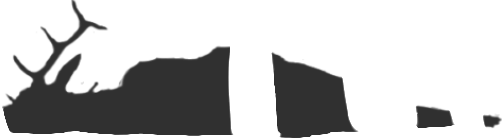
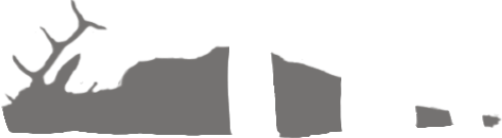
Created the objects for the deer body, rifle, and bag. Also updated graphics
Created methods to access information from the csv file which can be repeatedly accessed from the view

diff --git a/JIntroductionScreen.java b/JIntroductionScreen.java
@@ -9,71 +9,24 @@ public class JIntroductionScreen extends JPanel{
 	BufferedImage imgIntroduction = null;
 	
 	BufferedImage imgMouse = null;
-	double dblMouseX;
-	double dblMouseY;
+	int intMouseX = 700;
+	int intMouseY = 500;
 	
 	//Methods
 	public void paintComponent(Graphics g){
         super.paintComponent(g);
 			//Draw Background
 			g.drawImage(imgIntroduction, 0, 0, null);
-			g.drawImage(imgMouse,700, 500, null);
+			g.drawImage(imgMouse,intMouseX, intMouseY, null);
     }
-    
-	JTextArea theChat = new JTextArea();
-	JScrollPane theChatScroll = new JScrollPane(theChat);
-	JTextField SendChat = new JTextField();
-	
-	//Methods
-	public void actionPerformed (ActionEvent evt){
-		
-	}
-	public void mousePressed(MouseEvent evt) {
-		
-	}
-	
-	public void mouseDragged(MouseEvent evt) {
-      
-    }
-
-    public void mouseReleased(MouseEvent evt) {
-    
-    } 
-    
-    public void mouseClicked(MouseEvent evt) {
-		
-	}
-    public void mouseEntered(MouseEvent evt) {
-		
-	}
-    public void mouseExited(MouseEvent evt){
-		
-	}
-    public void mouseMoved(MouseEvent evt) {
-	}
-	
-	//Constructor
-	public IntroductionView(){
-		IntroPanel.setLayout(null);
-		IntroPanel.setPreferredSize(new Dimension(1280, 720));
-		
-		HelpButton.setBounds(1000,20,250,50);
-		HelpButton.setBackground(Color.GRAY);
-		HelpButton.addActionListener(this);
-		IntroPanel.add(HelpButton);
-		
-		theChatScroll.setBounds (1000,100, 250, 500);
-		
-		
-	}
-}
+  
     
     //Constructor
     public JIntroductionScreen(){
 		super();
 		try{
 			imgIntroduction = ImageIO.read(new File("images/Introduction Background.png"));
-			imgMouse = ImageIO.read(new File("images/Target Cursor"));
+			imgMouse = ImageIO.read(new File("images/Target Cursor.png"));
 		}catch(IOException e){
 			System.out.println("Unable to load image");
 		}

diff --git a/Path1Panel.java b/Path1Panel.java
@@ -19,9 +19,14 @@ public class Path1Panel extends JPanel implements ActionListener, MouseListener{
 	//Unlockables
 	boolean blnSolved = false;
 	boolean blnDeerBody = false;
+	boolean blnHunting = false;
+	boolean blnBag = false;
+
 	
 	//Objects
 	JButton btnDeerBody = new JButton(new ImageIcon("images/Deer Body.png"));
+	JButton btnHunting = new JButton(new ImageIcon("images/Hunting Silhoutte.png"));
+	JButton btnBag = new JButton(new ImageIcon("images/Bag1.png"));
 	
 	//Text Area where clues are given
 	JTextArea TheTextArea = new JTextArea("");
@@ -41,18 +46,49 @@ public class Path1Panel extends JPanel implements ActionListener, MouseListener{
 			intObjectRow = Model1.AssignRow("deer body");		//Figure out on which line of the csv file the object is on
 			System.out.println(intObjectRow);
 			
-			if(blnDeerBody != true){
+			if(blnDeerBody == false){
 				blnDeerBody = Model1.AssignAction(intObjectRow); 	//Check if the object has a puzzle if it has never been clicked before
 				System.out.println(blnDeerBody);
 			}
-			
 			if(blnDeerBody == true){ 							//After getting a up to date status, check if it is okay to display the clue
 				TheTextArea.setText(Model1.strSequence[intObjectRow][5]); 		//If so, get clue for the array
 				imgTextBox.setVisible(true);				
 				TheTextArea.setVisible(true);
+				//Unlock the next object
+				strNextObject = Model1.strSequence[intObjectRow][6];
 			}
 			
 		}
+		//If the rifle is clicked: This depends on if the object has been unlocked
+		if(evt.getSource() == btnHunting){
+			if(strNextObject.equals("rifle") || blnHunting == true){	//What to do if the object has been unlocked
+				intObjectRow = Model1.AssignRow("rifle");
+				blnHunting = Model1.AssignAction(intObjectRow);
+				TheTextArea.setText(Model1.strSequence[intObjectRow][5]); 		//If so, get clue for the array
+				imgTextBox.setVisible(true);				
+				TheTextArea.setVisible(true);
+				strNextObject = Model1.strSequence[intObjectRow][6];			//Get next object
+			}else{														//If the object has not been unlocked, give alternate clue
+				TheTextArea.setText("Looking at the rifle, you find nothing of note. Better not touch it for now, \nit could be dangerous"); 		
+				imgTextBox.setVisible(true);				
+				TheTextArea.setVisible(true);
+			}			
+		 }
+		 //If the rifle is clicked: This depends on if the object has been unlocked
+		if(evt.getSource() == btnBag){
+			if(strNextObject.equals("bag") || blnBag == true){	//What to do if the object has been unlocked
+				intObjectRow = Model1.AssignRow("bag");
+				blnBag = Model1.AssignAction(intObjectRow);
+				TheTextArea.setText(Model1.strSequence[intObjectRow][5]); 		//If so, get clue for the array
+				imgTextBox.setVisible(true);				
+				TheTextArea.setVisible(true);
+				strNextObject = Model1.strSequence[intObjectRow][6];			//Get next object
+			}else{														//If the object has not been unlocked, give alternate clue
+				TheTextArea.setText("You spot a bag in the distant fog, it doesn't seem worth it to go for yet."); 		
+				imgTextBox.setVisible(true);				
+				TheTextArea.setVisible(true);
+			}			
+		 }
 		
 	}
 	public void mouseClicked(MouseEvent evt){
@@ -90,7 +126,7 @@ public class Path1Panel extends JPanel implements ActionListener, MouseListener{
 		
 		//Text Area
 		imgTextBox.setBounds(50,520,908, 155);		//Draw of the text box
-		TheTextArea.setBounds(90,535,800,120);
+		TheTextArea.setBounds(100,535,800,120);
 		TheTextArea.setFont(new Font("Arial", Font.PLAIN, 24));
 		TheTextArea.setForeground(Color.WHITE);
 		TheTextArea.setEditable(false);
@@ -108,6 +144,17 @@ public class Path1Panel extends JPanel implements ActionListener, MouseListener{
 		btnDeerBody.setBorderPainted(false);
 		btnDeerBody.addActionListener(this);
 		this.add(btnDeerBody);
-		
+		//Rifle
+		btnHunting.setBounds(Integer.parseInt(Model1.strSequence[1][1]), Integer.parseInt(Model1.strSequence[1][2]),87, 239);
+		btnHunting.setContentAreaFilled(false);
+		btnHunting.setBorderPainted(false);
+		btnHunting.addActionListener(this);
+		this.add(btnHunting);
+		//Bag
+		btnBag.setBounds(Integer.parseInt(Model1.strSequence[2][1]), Integer.parseInt(Model1.strSequence[2][2]),35, 95);
+		btnBag.setContentAreaFilled(false);
+		btnBag.setBorderPainted(false);
+		btnBag.addActionListener(this);
+		this.add(btnBag);
 	}
 }

diff --git a/MainEscapeRoom.java b/MainEscapeRoom.java
@@ -18,7 +18,7 @@ public class MainEscapeRoom implements ActionListener{
 	Timer theTimer = new Timer(1000/60, this);
 	
 	//Network Connection
-	SuperSocketMaster ssm = null;
+	NetPanel ConnectionPanel = new NetPanel();
 	
 	//Introduction Panel
 	IntroductionView IntroductionPanel = new IntroductionView();
@@ -33,6 +33,7 @@ public class MainEscapeRoom implements ActionListener{
 	
 	//Constructor
 	public MainEscapeRoom(){
+		
 		
 		theFrame.setContentPane(Panel1);
         theFrame.setDefaultCloseOperation(JFrame.EXIT_ON_CLOSE);